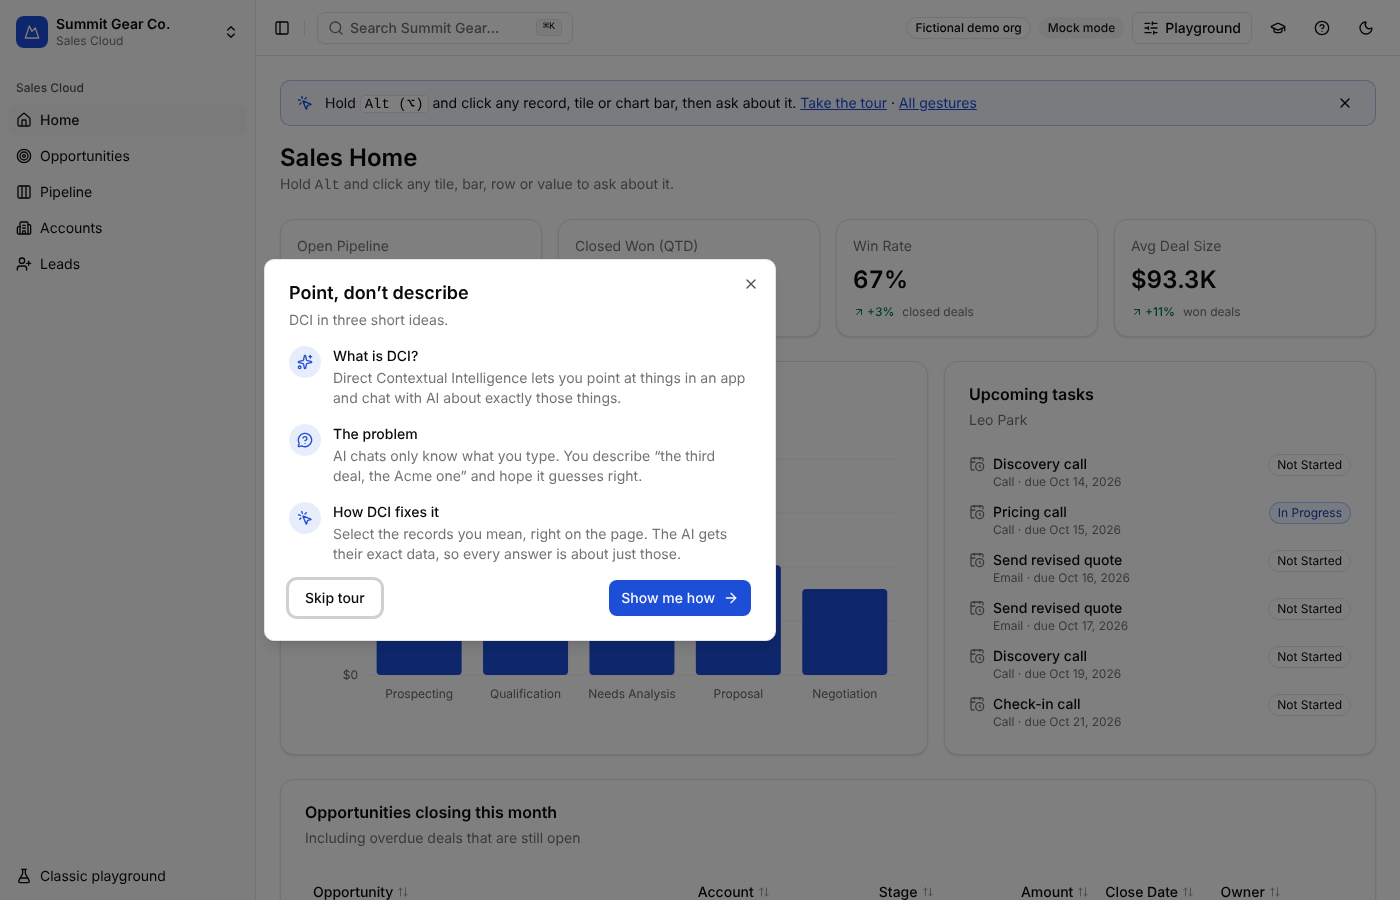
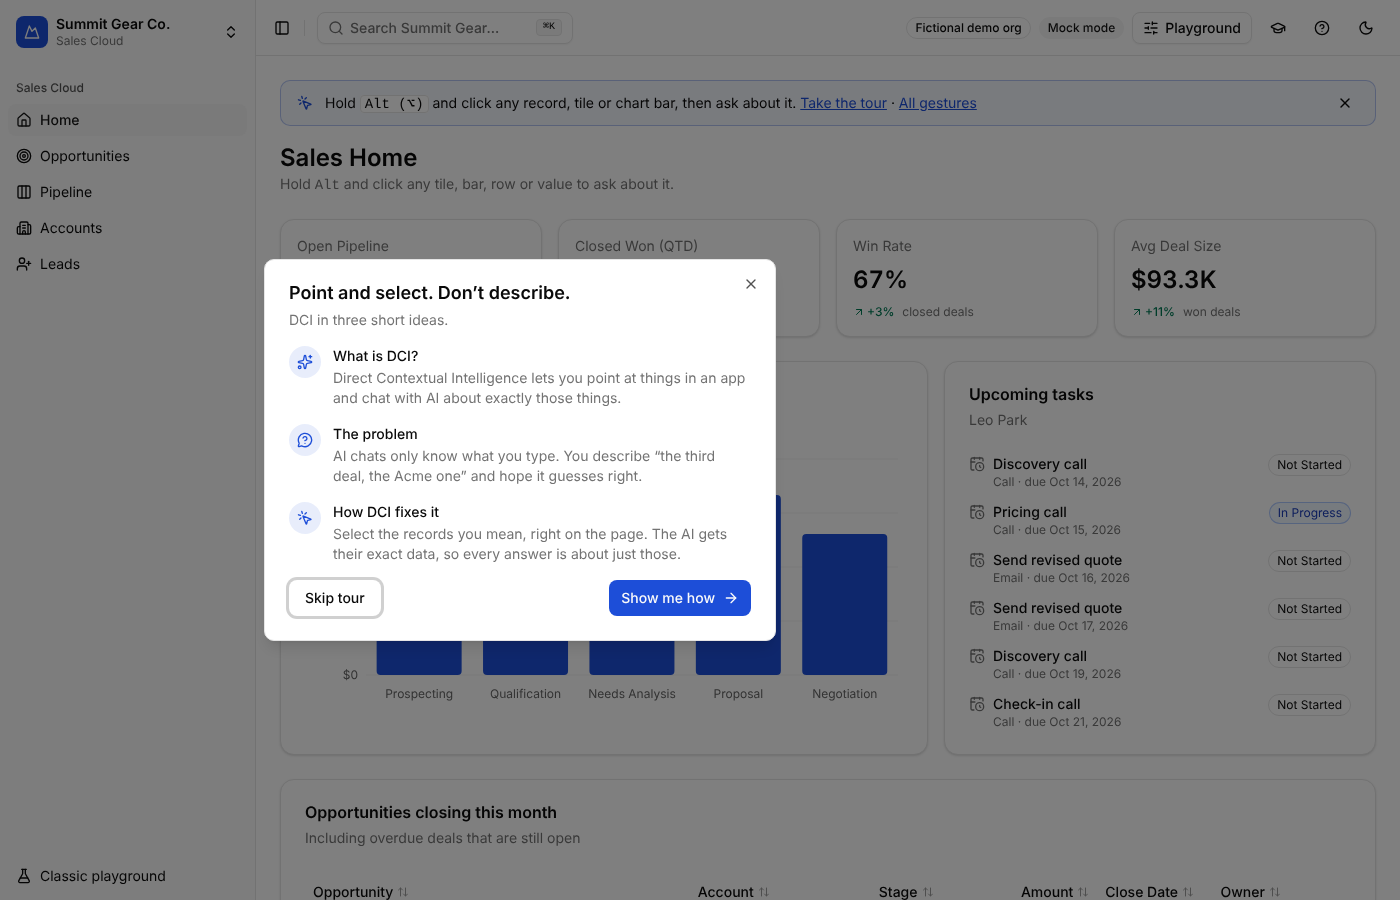
Retitle the tagline to "Point and select. Don’t describe."
In the tour intro, the root README and the core package README.

Claude-Session: https://claude.ai/code/session_01HpZJmR7QkjH5Forr7z8UFG

Changed region(s): [[0.5529, 0.56, 0.645, 0.6533], [0.2457, 0.3111, 0.3993, 0.3422]]

diff --git a/e2e/onboarding.spec.ts b/e2e/onboarding.spec.ts
@@ -13,7 +13,9 @@ test.describe('onboarding tour', () => {
   }) => {
     await app.open('/sales', { tour: 'on' });
     const tour = page.getByTestId('tour');
-    await expect(tour.getByRole('heading', { name: 'Point, don’t describe' })).toBeVisible();
+    await expect(
+      tour.getByRole('heading', { name: 'Point and select. Don’t describe.' }),
+    ).toBeVisible();
     await expect(tour.getByTestId('tour-intro').getByRole('heading')).toHaveText([
       'What is DCI?',
       'The problem',

diff --git a/apps/demo/src/onboarding/tour-intro.tsx b/apps/demo/src/onboarding/tour-intro.tsx
@@ -8,7 +8,7 @@ export function TourIntro({ onStart, onSkip }: { onStart: () => void; onSkip: ()
   return (
     <>
       <DialogHeader>
-        <DialogTitle>Point, don’t describe</DialogTitle>
+        <DialogTitle>Point and select. Don’t describe.</DialogTitle>
         <DialogDescription>DCI in three short ideas.</DialogDescription>
       </DialogHeader>
       <ul className="grid gap-4" data-testid="tour-intro">

diff --git a/README.md b/README.md
@@ -1,6 +1,6 @@
 # DCI: Direct Contextual Intelligence
 
-**Point, don't describe.** DCI lets people select parts of a web app with **Alt+Click** and use
+**Point and select. Don’t describe.** DCI lets people select parts of a web app with **Alt+Click** and use
 exactly those things as context for an AI conversation, instead of describing them in words.
 
 [![CI](https://github.com/samirdamle/dci/actions/workflows/ci.yml/badge.svg)](https://github.com/samirdamle/dci/actions/workflows/ci.yml)

diff --git a/packages/core/README.md b/packages/core/README.md
@@ -1,6 +1,6 @@
 # @samirdamle/dci-core
 
-**Point, don't describe.** DCI lets people select parts of your web app with **Alt+Click** (or a
+**Point and select. Don’t describe.** DCI lets people select parts of your web app with **Alt+Click** (or a
 drag, or the keyboard) and ask an AI about exactly those things. Your backend receives structured
 context (ids, types, data, where it sits on the page) instead of a description.
 
